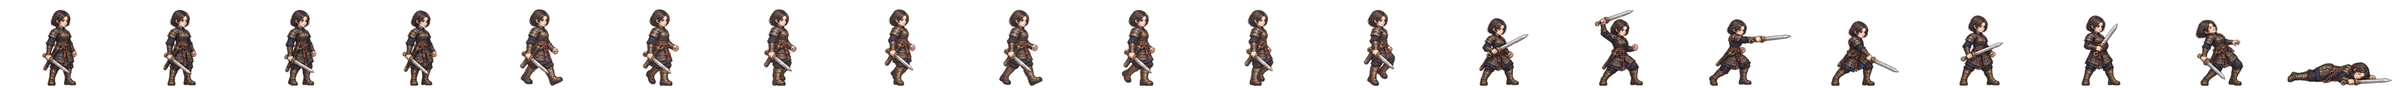
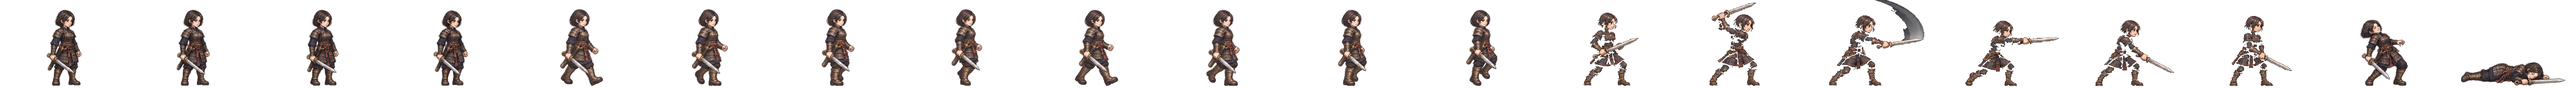
아라·진하 공격 칸 12~17 새로 (Codex 67 공격 8칸 · 형 「공격이 매끄럽지 못하다」)
준비 → 젖힘 → 휘두름(잔상) → 맞힘 → 따라감 → 거둠을 그대로 넣음(서기와 같은 판 1·8 은 뺌).
화가가 그린 앞으로 내디딤을 살리려고 칸마다 다시 가운데로 놓지 않고 줄 기준점으로만 맞춤(attack8-intake.py).
진하 지팡이·아라 칼끝이 칸 밖으로 잘려 띠 칸을 넓힘(진하 200→248 · 아라 216→232 · manifest·spritePx 같이).
감실·쇠비·다나·소서노는 옷이 서기 그림과 달라(숄·윗옷·배·털 깃) Codex 에 다시 시킴.

Claude-Session: https://claude.ai/code/session_01TRiuN7s6aDfSnaHxrkctmU

diff --git a/src/realm/data/spritePx.ts b/src/realm/data/spritePx.ts
@@ -1,3 +1,3 @@
 /** public/realm/anim-px/manifest.json 의 사본 — tools/sprite-normalize.mjs 가 만든다 (손으로 고치지 말 것). 칸 [가로, 세로] · feet = 발 줄(칸 위에서 y) · bodyPx = 서 있는 몸 키 */
 import { expandManifest } from './sprite-manifest.ts'
-export const SPRITE_PX: Readonly<Record<string, { readonly cell: readonly [number, number]; readonly feet: number; readonly bodyPx: number; readonly kind: 'general' | 'soldier' | 'folk' | 'crowd'; readonly cells: number }>> = expandManifest<{ readonly cell: readonly [number, number]; readonly feet: number; readonly bodyPx: number; readonly kind: 'general' | 'soldier' | 'folk' | 'crowd'; readonly cells: number }>([{"cell":[166,128],"feet":126,"bodyPx":124,"kind":"soldier","cells":20},{"cell":[116,128],"feet":126,"bodyPx":117,"kind":"soldier","cells":20},{"cell":[127,128],"feet":126,"bodyPx":116,"kind":"soldier","cells":20},{"cell":[269,128],"feet":126,"bodyPx":126,"kind":"soldier","cells":20},{"cell":[503,128],"feet":126,"bodyPx":127,"kind":"soldier","cells":20},{"cell":[614,128],"feet":126,"bodyPx":126,"kind":"soldier","cells":20},{"cell":[200,160],"feet":156,"bodyPx":138,"kind":"general","cells":20},{"cell":[208,160],"feet":155,"bodyPx":138,"kind":"general","cells":20},{"cell":[216,160],"feet":156,"bodyPx":138,"kind":"general","cells":20},{"cell":[232,160],"feet":155,"bodyPx":138,"kind":"general","cells":20},{"cell":[248,160],"feet":155,"bodyPx":138,"kind":"general","cells":20},{"cell":[224,160],"feet":156,"bodyPx":139,"kind":"general","cells":20},{"cell":[184,160],"feet":156,"bodyPx":138,"kind":"general","cells":20},{"cell":[208,160],"feet":156,"bodyPx":138,"kind":"general","cells":20},{"cell":[232,160],"feet":156,"bodyPx":138,"kind":"general","cells":20},{"cell":[168,160],"feet":156,"bodyPx":138,"kind":"general","cells":20},{"cell":[192,160],"feet":156,"bodyPx":138,"kind":"general","cells":20},{"cell":[168,160],"feet":156,"bodyPx":125,"kind":"general","cells":20},{"cell":[200,160],"feet":156,"bodyPx":122,"kind":"general","cells":20},{"cell":[256,160],"feet":156,"bodyPx":138,"kind":"general","cells":20},{"cell":[144,160],"feet":156,"bodyPx":70,"kind":"general","cells":20},{"cell":[208,160],"feet":156,"bodyPx":70,"kind":"general","cells":20},{"cell":[192,160],"feet":156,"bodyPx":70,"kind":"general","cells":20},{"cell":[240,160],"feet":155,"bodyPx":138,"kind":"general","cells":20},{"cell":[160,160],"feet":156,"bodyPx":138,"kind":"general","cells":20},{"cell":[224,160],"feet":155,"bodyPx":138,"kind":"general","cells":20},{"cell":[200,160],"feet":156,"bodyPx":139,"kind":"general","cells":20},{"cell":[232,160],"feet":156,"bodyPx":139,"kind":"general","cells":20},{"cell":[264,160],"feet":155,"bodyPx":138,"kind":"general","cells":20},{"cell":[176,160],"feet":156,"bodyPx":138,"kind":"general","cells":20},{"cell":[248,160],"feet":156,"bodyPx":138,"kind":"general","cells":20},{"cell":[200,160],"feet":155,"bodyPx":138,"kind":"general","cells":20},{"cell":[192,160],"feet":155,"bodyPx":138,"kind":"general","cells":20},{"cell":[192,160],"feet":156,"bodyPx":124,"kind":"general","cells":20},{"cell":[224,160],"feet":156,"bodyPx":138,"kind":"general","cells":20},{"cell":[232,160],"feet":156,"bodyPx":73,"kind":"general","cells":20},{"cell":[256,160],"feet":155,"bodyPx":138,"kind":"general","cells":20},{"cell":[224,160],"feet":156,"bodyPx":128,"kind":"general","cells":20},{"cell":[176,160],"feet":156,"bodyPx":129,"kind":"general","cells":20},{"cell":[216,160],"feet":155,"bodyPx":138,"kind":"general","cells":20},{"cell":[176,160],"feet":156,"bodyPx":70,"kind":"general","cells":20},{"cell":[186,128],"feet":126,"bodyPx":127,"kind":"soldier","cells":20},{"cell":[298,128],"feet":126,"bodyPx":126,"kind":"soldier","cells":20},{"cell":[82,128],"feet":126,"bodyPx":114,"kind":"folk","cells":8},{"cell":[134,128],"feet":126,"bodyPx":119,"kind":"soldier","cells":20},{"cell":[380,128],"feet":126,"bodyPx":124,"kind":"soldier","cells":20},{"cell":[114,128],"feet":126,"bodyPx":115,"kind":"soldier","cells":20},{"cell":[122,128],"feet":126,"bodyPx":114,"kind":"soldier","cells":20},{"cell":[254,128],"feet":126,"bodyPx":128,"kind":"soldier","cells":20},{"cell":[438,128],"feet":126,"bodyPx":126,"kind":"soldier","cells":20},{"cell":[88,128],"feet":126,"bodyPx":113,"kind":"folk","cells":8},{"cell":[100,128],"feet":126,"bodyPx":115,"kind":"folk","cells":8},{"cell":[108,128],"feet":126,"bodyPx":115,"kind":"folk","cells":8},{"cell":[63,128],"feet":126,"bodyPx":113,"kind":"folk","cells":8},{"cell":[69,96],"feet":96,"bodyPx":96,"kind":"crowd","cells":1},{"cell":[54,96],"feet":96,"bodyPx":96,"kind":"crowd","cells":1},{"cell":[47,96],"feet":96,"bodyPx":96,"kind":"crowd","cells":1},{"cell":[49,96],"feet":96,"bodyPx":96,"kind":"crowd","cells":1},{"cell":[57,96],"feet":96,"bodyPx":96,"kind":"crowd","cells":1},{"cell":[55,96],"feet":96,"bodyPx":96,"kind":"crowd","cells":1},{"cell":[45,96],"feet":96,"bodyPx":96,"kind":"crowd","cells":1},{"cell":[53,96],"feet":96,"bodyPx":96,"kind":"crowd","cells":1},{"cell":[64,96],"feet":96,"bodyPx":96,"kind":"crowd","cells":1},{"cell":[96,72],"feet":72,"bodyPx":72,"kind":"general","cells":20},{"cell":[184,160],"feet":156,"bodyPx":137,"kind":"general","cells":20},{"cell":[240,160],"feet":156,"bodyPx":138,"kind":"general","cells":20},{"cell":[288,160],"feet":156,"bodyPx":138,"kind":"general","cells":20},{"cell":[208,160],"feet":156,"bodyPx":123,"kind":"general","cells":20},{"cell":[176,160],"feet":156,"bodyPx":122,"kind":"general","cells":20},{"cell":[200,160],"feet":156,"bodyPx":127,"kind":"general","cells":20},{"cell":[184,160],"feet":156,"bodyPx":134,"kind":"general","cells":20},{"cell":[176,160],"feet":156,"bodyPx":137,"kind":"general","cells":20},{"cell":[184,160],"feet":156,"bodyPx":133,"kind":"general","cells":20}],[["axe",0],["bandit-chief",1],["bandit-club",2],["boat",3],["bow",4],["crossbow",5],["gen-adogan",6],["gen-alpyeong",7],["gen-ara",8],["gen-areum",9],["gen-aryeong",10],["gen-bakdal",6],["gen-baram",11],["gen-bdanbi",12],["gen-beom",13],["gen-beombal",12],["gen-beomi",13],["gen-bira",14],["gen-biryu",13],["gen-budeul",15],["gen-byeol",16],["gen-daemusin",17],["gen-daeso",6],["gen-dallae2",12],["gen-dalli",12],["gen-damul",18],["gen-danbi",13],["gen-dangung",16],["gen-darae",6],["gen-dokmudeom",7],["gen-duman",19],["gen-eomni",9],["gen-eureum",13],["gen-g-bow",20],["gen-g-spear",21],["gen-g-sword",22],["gen-gaennae",6],["gen-gamsil",23],["gen-gaon",24],["gen-geota",13],["gen-geumbawi",15],["gen-geumha",16],["gen-goeun",13],["gen-gom",25],["gen-gomok",13],["gen-gureum",23],["gen-guryema",16],["gen-gwaeyu",14],["gen-haebi",26],["gen-haedal",6],["gen-haesol",27],["gen-halla",7],["gen-heo",28],["gen-hneoul",12],["gen-hogong",8],["gen-hojin",13],["gen-horselord",13],["gen-hwalmi",29],["gen-hyeokgeose",16],["gen-hyeopbo",6],["gen-irang",13],["gen-jibaekho",30],["gen-jinha",31],["gen-jita",32],["gen-jumong",33],["gen-keundol",7],["gen-maehwa",13],["gen-maenun",16],["gen-malgalgi",19],["gen-mari",34],["gen-maro",34],["gen-maryeo",13],["gen-mdallae",11],["gen-mir",6],["gen-mount",35],["gen-mulbeom",36],["gen-mulsae",8],["gen-musoe",8],["gen-noeul",34],["gen-nuri",30],["gen-ocheongan",34],["gen-odi",10],["gen-odogan",6],["gen-ogan",16],["gen-oi",37],["gen-olddaeso",14],["gen-onjo",38],["gen-pidogan",13],["gen-sagong",25],["gen-sdallae",6],["gen-sincheongan",8],["gen-singwigan",8],["gen-sinneoul",9],["gen-sobeol",9],["gen-soebi",6],["gen-soebo",13],["gen-soenun",34],["gen-sogeumbi",39],["gen-songbi",34],["gen-songyang",12],["gen-sori",29],["gen-soseono",28],["gen-suro",16],["gen-tahae",6],["gen-tneoul",34],["gen-w-bow",20],["gen-w-spear",40],["gen-waechief",13],["gen-wan",8],["gen-yeodogan",13],["gen-yucheongan",13],["gen-yusugan",14],["horse",41],["marine",42],["migrant",43],["militia",44],["pike",45],["pirate-captain",46],["pirate-sword",47],["shield",48],["spear",49],["villager-builder",50],["villager-farmer",51],["villager-porter",52],["villager-woman",53],["crowd-b1",54],["crowd-b2",55],["crowd-b3",56],["crowd-b4",57],["crowd-b5",58],["crowd-b6",59],["crowd-f1",54],["crowd-f2",59],["crowd-f3",60],["crowd-f4",61],["crowd-f5",54],["crowd-f6",62],["gen-dalbit",63],["gen-base-g-07-drunk-warrior",16],["gen-base-g-40-anya-adan",13],["gen-base-w-13-young-archer",13],["gen-base-g-03-sea-trader",13],["gen-base-w-10-pirate-captain",34],["gen-base-w-64-miri-dallae",34],["gen-base-g-41-goja-bau",14],["gen-base-g-42-dokro-garam",14],["gen-base-g-09-farmer-conscript",8],["gen-base-w-02-goguryeo-lady",8],["gen-base-w-17-mahan-pearl-diver",13],["gen-base-g-17-saro-isageum",13],["gen-base-g-18-daegaya-king",12],["gen-base-g-35-dabeol-dalgu",13],["gen-base-g-19-sabeol-veteran",8],["gen-base-w-23-usisan-whale-queen",8],["gen-base-g-36-gammun-gamdol",34],["gen-base-g-20-samul-sea-lord",34],["gen-base-g-37-eumjeup-jeup",12],["gen-base-g-38-chopal-palmae",16],["gen-base-w-75-daegaya-soemoe",16],["gen-base-g-45-dabeol-deulgae",12],["gen-base-g-04-jinhan-giant",13],["gen-base-g-08-veteran",13],["gen-base-w-18-jinhan-salt-widow",13],["gen-base-w-12-court-dancer",12],["gen-base-w-83-gyeonji-beodeul",34],["gen-base-w-05-baekje-queen",16],["gen-base-w-21-baekje-court-dancer",12],["gen-base-g-01-master-smith",64],["gen-base-g-93-jomun-solgae",29],["gen-base-g-57-bihwa-neup",8],["gen-base-w-72-eumjeup-beol",13],["gen-base-w-102-garak-dana",8],["gen-base-g-68-baekje-onnuri",13],["gen-base-w-27-mokji-jinha",6],["gen-base-g-22-ungcheon-gomnae",6],["gen-base-g-23-sangdang-soedal",13],["gen-base-g-24-wansan-onsan",6],["gen-base-g-25-balla-keunmoe",8],["gen-base-g-61-heomcheuk-bawi",8],["gen-base-g-88-wander-soeul",34],["gen-base-w-14-feast-spy",6],["gen-base-g-12-silla-youth",13],["gen-base-w-08-mahan-warrior",13],["gen-base-g-62-beonye-hanul",65],["gen-base-g-63-heomcheuk-beogeum",13],["gen-base-g-84-wander-seoneul",13],["gen-base-w-50-siljik-mulga",8],["gen-base-g-46-uga-nureongso",8],["gen-base-w-80-usan-gangchi",12],["gen-base-g-47-guga-sanyanggae",8],["gen-base-w-76-gampyeong-baetsagong",6],["gen-base-g-05-mahan-chieftain",8],["gen-base-g-58-usan-uhae",13],["gen-base-g-27-maek-maekdol",13],["gen-base-w-53-hwanna-gabi",15],["gen-base-w-29-golpo-janmul",6],["gen-base-g-53-baekje-haeru",6],["gen-base-w-71-yeonna-neoul",8],["gen-base-w-79-yangmaek-solmae",8],["gen-base-w-34-chopal-deulme",6],["gen-base-g-44-maga-malgup",66],["gen-base-w-31-dabeol-dalbit",13],["gen-base-g-51-biryuna-mulgyeol",34],["gen-base-g-48-gwanna-musoe",13],["gen-base-g-32-uga-sodu",14],["gen-base-g-49-goguryeo-sona",16],["gen-base-g-30-gwanna-soemoe",34],["gen-base-g-52-tamna-oreum",12],["gen-base-g-29-yeonna-myeongsol",16],["gen-base-w-56-dongokjeo-sogeum",16],["gen-base-g-54-mokji-mahan",34],["gen-base-g-33-jeoga-metdol",16],["gen-base-w-36-baekje-maena",16],["gen-base-w-38-sangdang-bulmae",6],["gen-base-w-39-gosaburi-galmae",16],["gen-base-w-40-mujin-munui",13],["gen-base-w-41-hwanna-beodeul",12],["gen-base-w-43-uga-nuri",19],["gen-base-w-45-tamna-oreumbi",12],["gen-base-g-60-golbeol-golgae",12],["gen-base-g-61-apdok-ap",8],["gen-base-g-62-gammun-gamnamu",6],["gen-base-g-63-chopal-yeoul",30],["gen-base-g-64-michuhol-sogeumkkun",65],["gen-base-g-65-sangdang-soemangchi",34],["gen-base-g-66-geonma-malbalgup",65],["gen-base-g-67-gosaburi-buri",12],["gen-base-g-68-mujin-bitgoeul",12],["gen-base-g-69-goryong-yong",34],["gen-base-g-70-siljik-pado",65],["gen-base-w-81-byeokjin-byeolbit",13],["gen-base-w-46-geonma-maru",34],["gen-base-w-48-mujin-mudeung",34],["gen-base-g-26-gampyeong-gaetbeol",14],["gen-base-g-60-eupcha-hangyeol",67],["gen-base-g-15-shaman-man",8],["gen-base-g-85-wander-ure",30],["gen-base-g-43-hwanna-amnok",13],["gen-base-g-50-bullae-gwaha",16],["gen-base-g-55-saro-bakdal",13],["gen-base-g-56-haseulla-gwahama",6],["gen-base-w-06-buyeo-huntress",16],["gen-base-w-22-dongye-tiger-huntress",13],["gen-base-w-25-bihwa-priestess",8],["gen-base-w-24-apdok-queen",12],["gen-base-w-61-iseo-sinae",13],["gen-base-w-26-iseo-tomboy-general",30],["gen-base-g-59-yangmaek-maekson",29],["gen-aw1-haebi",16],["gen-aw1-soseono",65],["gen-aw1-gamsil",12],["gen-aw1-mir",29],["gen-aw1-dangung",6],["gen-aw1-ara",34],["gen-aw1-jumong",68],["gen-aw1-onjo",69],["gen-aw1-base-w-83-gyeonji-beodeul",16],["gen-aw1-heo",8],["gen-aw1-base-g-38-chopal-palmae",12],["gen-aw1-base-w-25-bihwa-priestess",70],["gen-aw1-sori",15],["gen-aw1-gomok",6],["gen-aw1-irang",16],["gen-aw1-budeul",15],["gen-aw1-gom",34],["gen-aw1-sdallae",6],["gen-aw1-base-w-13-young-archer",6],["gen-aw1-base-w-36-baekje-maena",71],["gen-aw1-base-g-09-farmer-conscript",8],["gen-aw1-base-w-02-goguryeo-lady",72],["gen-aw1-haedal",12],["gen-aw1-hogong",6],["gen-aw1-maehwa",29],["gen-aw1-base-w-06-buyeo-huntress",12],["gen-aw1-base-w-08-mahan-warrior",6],["gen-aw1-base-w-29-golpo-janmul",16],["gen-aw1-base-w-31-dabeol-dalbit",16],["gen-aw1-base-w-38-sangdang-bulmae",15],["gen-aw1-bira",8],["gen-aw1-base-w-53-hwanna-gabi",15],["gen-aw1-base-w-56-dongokjeo-sogeum",29],["gen-aw1-base-w-72-eumjeup-beol",16],["gen-aw1-bdanbi",15],["gen-aw1-beom",12],["gen-aw1-beombal",12],["gen-aw1-byeol",29],["gen-aw1-dalli",29],["gen-aw1-malgalgi",30],["gen-aw1-sincheongan",8]])
+export const SPRITE_PX: Readonly<Record<string, { readonly cell: readonly [number, number]; readonly feet: number; readonly bodyPx: number; readonly kind: 'general' | 'soldier' | 'folk' | 'crowd'; readonly cells: number }>> = expandManifest<{ readonly cell: readonly [number, number]; readonly feet: number; readonly bodyPx: number; readonly kind: 'general' | 'soldier' | 'folk' | 'crowd'; readonly cells: number }>([{"cell":[166,128],"feet":126,"bodyPx":124,"kind":"soldier","cells":20},{"cell":[116,128],"feet":126,"bodyPx":117,"kind":"soldier","cells":20},{"cell":[127,128],"feet":126,"bodyPx":116,"kind":"soldier","cells":20},{"cell":[269,128],"feet":126,"bodyPx":126,"kind":"soldier","cells":20},{"cell":[503,128],"feet":126,"bodyPx":127,"kind":"soldier","cells":20},{"cell":[614,128],"feet":126,"bodyPx":126,"kind":"soldier","cells":20},{"cell":[200,160],"feet":156,"bodyPx":138,"kind":"general","cells":20},{"cell":[208,160],"feet":155,"bodyPx":138,"kind":"general","cells":20},{"cell":[232,160],"feet":156,"bodyPx":138,"kind":"general","cells":20},{"cell":[232,160],"feet":155,"bodyPx":138,"kind":"general","cells":20},{"cell":[248,160],"feet":155,"bodyPx":138,"kind":"general","cells":20},{"cell":[224,160],"feet":156,"bodyPx":139,"kind":"general","cells":20},{"cell":[184,160],"feet":156,"bodyPx":138,"kind":"general","cells":20},{"cell":[208,160],"feet":156,"bodyPx":138,"kind":"general","cells":20},{"cell":[168,160],"feet":156,"bodyPx":138,"kind":"general","cells":20},{"cell":[192,160],"feet":156,"bodyPx":138,"kind":"general","cells":20},{"cell":[168,160],"feet":156,"bodyPx":125,"kind":"general","cells":20},{"cell":[200,160],"feet":156,"bodyPx":122,"kind":"general","cells":20},{"cell":[256,160],"feet":156,"bodyPx":138,"kind":"general","cells":20},{"cell":[144,160],"feet":156,"bodyPx":70,"kind":"general","cells":20},{"cell":[208,160],"feet":156,"bodyPx":70,"kind":"general","cells":20},{"cell":[192,160],"feet":156,"bodyPx":70,"kind":"general","cells":20},{"cell":[240,160],"feet":155,"bodyPx":138,"kind":"general","cells":20},{"cell":[160,160],"feet":156,"bodyPx":138,"kind":"general","cells":20},{"cell":[224,160],"feet":155,"bodyPx":138,"kind":"general","cells":20},{"cell":[200,160],"feet":156,"bodyPx":139,"kind":"general","cells":20},{"cell":[232,160],"feet":156,"bodyPx":139,"kind":"general","cells":20},{"cell":[264,160],"feet":155,"bodyPx":138,"kind":"general","cells":20},{"cell":[216,160],"feet":156,"bodyPx":138,"kind":"general","cells":20},{"cell":[176,160],"feet":156,"bodyPx":138,"kind":"general","cells":20},{"cell":[248,160],"feet":156,"bodyPx":138,"kind":"general","cells":20},{"cell":[192,160],"feet":155,"bodyPx":138,"kind":"general","cells":20},{"cell":[192,160],"feet":156,"bodyPx":124,"kind":"general","cells":20},{"cell":[224,160],"feet":156,"bodyPx":138,"kind":"general","cells":20},{"cell":[232,160],"feet":156,"bodyPx":73,"kind":"general","cells":20},{"cell":[256,160],"feet":155,"bodyPx":138,"kind":"general","cells":20},{"cell":[224,160],"feet":156,"bodyPx":128,"kind":"general","cells":20},{"cell":[176,160],"feet":156,"bodyPx":129,"kind":"general","cells":20},{"cell":[216,160],"feet":155,"bodyPx":138,"kind":"general","cells":20},{"cell":[176,160],"feet":156,"bodyPx":70,"kind":"general","cells":20},{"cell":[186,128],"feet":126,"bodyPx":127,"kind":"soldier","cells":20},{"cell":[298,128],"feet":126,"bodyPx":126,"kind":"soldier","cells":20},{"cell":[82,128],"feet":126,"bodyPx":114,"kind":"folk","cells":8},{"cell":[134,128],"feet":126,"bodyPx":119,"kind":"soldier","cells":20},{"cell":[380,128],"feet":126,"bodyPx":124,"kind":"soldier","cells":20},{"cell":[114,128],"feet":126,"bodyPx":115,"kind":"soldier","cells":20},{"cell":[122,128],"feet":126,"bodyPx":114,"kind":"soldier","cells":20},{"cell":[254,128],"feet":126,"bodyPx":128,"kind":"soldier","cells":20},{"cell":[438,128],"feet":126,"bodyPx":126,"kind":"soldier","cells":20},{"cell":[88,128],"feet":126,"bodyPx":113,"kind":"folk","cells":8},{"cell":[100,128],"feet":126,"bodyPx":115,"kind":"folk","cells":8},{"cell":[108,128],"feet":126,"bodyPx":115,"kind":"folk","cells":8},{"cell":[63,128],"feet":126,"bodyPx":113,"kind":"folk","cells":8},{"cell":[69,96],"feet":96,"bodyPx":96,"kind":"crowd","cells":1},{"cell":[54,96],"feet":96,"bodyPx":96,"kind":"crowd","cells":1},{"cell":[47,96],"feet":96,"bodyPx":96,"kind":"crowd","cells":1},{"cell":[49,96],"feet":96,"bodyPx":96,"kind":"crowd","cells":1},{"cell":[57,96],"feet":96,"bodyPx":96,"kind":"crowd","cells":1},{"cell":[55,96],"feet":96,"bodyPx":96,"kind":"crowd","cells":1},{"cell":[45,96],"feet":96,"bodyPx":96,"kind":"crowd","cells":1},{"cell":[53,96],"feet":96,"bodyPx":96,"kind":"crowd","cells":1},{"cell":[64,96],"feet":96,"bodyPx":96,"kind":"crowd","cells":1},{"cell":[96,72],"feet":72,"bodyPx":72,"kind":"general","cells":20},{"cell":[184,160],"feet":156,"bodyPx":137,"kind":"general","cells":20},{"cell":[240,160],"feet":156,"bodyPx":138,"kind":"general","cells":20},{"cell":[288,160],"feet":156,"bodyPx":138,"kind":"general","cells":20},{"cell":[208,160],"feet":156,"bodyPx":123,"kind":"general","cells":20},{"cell":[176,160],"feet":156,"bodyPx":122,"kind":"general","cells":20},{"cell":[200,160],"feet":156,"bodyPx":127,"kind":"general","cells":20},{"cell":[184,160],"feet":156,"bodyPx":134,"kind":"general","cells":20},{"cell":[176,160],"feet":156,"bodyPx":137,"kind":"general","cells":20},{"cell":[184,160],"feet":156,"bodyPx":133,"kind":"general","cells":20}],[["axe",0],["bandit-chief",1],["bandit-club",2],["boat",3],["bow",4],["crossbow",5],["gen-adogan",6],["gen-alpyeong",7],["gen-ara",8],["gen-areum",9],["gen-aryeong",10],["gen-bakdal",6],["gen-baram",11],["gen-bdanbi",12],["gen-beom",13],["gen-beombal",12],["gen-beomi",13],["gen-bira",8],["gen-biryu",13],["gen-budeul",14],["gen-byeol",15],["gen-daemusin",16],["gen-daeso",6],["gen-dallae2",12],["gen-dalli",12],["gen-damul",17],["gen-danbi",13],["gen-dangung",15],["gen-darae",6],["gen-dokmudeom",7],["gen-duman",18],["gen-eomni",9],["gen-eureum",13],["gen-g-bow",19],["gen-g-spear",20],["gen-g-sword",21],["gen-gaennae",6],["gen-gamsil",22],["gen-gaon",23],["gen-geota",13],["gen-geumbawi",14],["gen-geumha",15],["gen-goeun",13],["gen-gom",24],["gen-gomok",13],["gen-gureum",22],["gen-guryema",15],["gen-gwaeyu",8],["gen-haebi",25],["gen-haedal",6],["gen-haesol",26],["gen-halla",7],["gen-heo",27],["gen-hneoul",12],["gen-hogong",28],["gen-hojin",13],["gen-horselord",13],["gen-hwalmi",29],["gen-hyeokgeose",15],["gen-hyeopbo",6],["gen-irang",13],["gen-jibaekho",30],["gen-jinha",10],["gen-jita",31],["gen-jumong",32],["gen-keundol",7],["gen-maehwa",13],["gen-maenun",15],["gen-malgalgi",18],["gen-mari",33],["gen-maro",33],["gen-maryeo",13],["gen-mdallae",11],["gen-mir",6],["gen-mount",34],["gen-mulbeom",35],["gen-mulsae",28],["gen-musoe",28],["gen-noeul",33],["gen-nuri",30],["gen-ocheongan",33],["gen-odi",10],["gen-odogan",6],["gen-ogan",15],["gen-oi",36],["gen-olddaeso",8],["gen-onjo",37],["gen-pidogan",13],["gen-sagong",24],["gen-sdallae",6],["gen-sincheongan",28],["gen-singwigan",28],["gen-sinneoul",9],["gen-sobeol",9],["gen-soebi",6],["gen-soebo",13],["gen-soenun",33],["gen-sogeumbi",38],["gen-songbi",33],["gen-songyang",12],["gen-sori",29],["gen-soseono",27],["gen-suro",15],["gen-tahae",6],["gen-tneoul",33],["gen-w-bow",19],["gen-w-spear",39],["gen-waechief",13],["gen-wan",28],["gen-yeodogan",13],["gen-yucheongan",13],["gen-yusugan",8],["horse",40],["marine",41],["migrant",42],["militia",43],["pike",44],["pirate-captain",45],["pirate-sword",46],["shield",47],["spear",48],["villager-builder",49],["villager-farmer",50],["villager-porter",51],["villager-woman",52],["crowd-b1",53],["crowd-b2",54],["crowd-b3",55],["crowd-b4",56],["crowd-b5",57],["crowd-b6",58],["crowd-f1",53],["crowd-f2",58],["crowd-f3",59],["crowd-f4",60],["crowd-f5",53],["crowd-f6",61],["gen-dalbit",62],["gen-base-g-07-drunk-warrior",15],["gen-base-g-40-anya-adan",13],["gen-base-w-13-young-archer",13],["gen-base-g-03-sea-trader",13],["gen-base-w-10-pirate-captain",33],["gen-base-w-64-miri-dallae",33],["gen-base-g-41-goja-bau",8],["gen-base-g-42-dokro-garam",8],["gen-base-g-09-farmer-conscript",28],["gen-base-w-02-goguryeo-lady",28],["gen-base-w-17-mahan-pearl-diver",13],["gen-base-g-17-saro-isageum",13],["gen-base-g-18-daegaya-king",12],["gen-base-g-35-dabeol-dalgu",13],["gen-base-g-19-sabeol-veteran",28],["gen-base-w-23-usisan-whale-queen",28],["gen-base-g-36-gammun-gamdol",33],["gen-base-g-20-samul-sea-lord",33],["gen-base-g-37-eumjeup-jeup",12],["gen-base-g-38-chopal-palmae",15],["gen-base-w-75-daegaya-soemoe",15],["gen-base-g-45-dabeol-deulgae",12],["gen-base-g-04-jinhan-giant",13],["gen-base-g-08-veteran",13],["gen-base-w-18-jinhan-salt-widow",13],["gen-base-w-12-court-dancer",12],["gen-base-w-83-gyeonji-beodeul",33],["gen-base-w-05-baekje-queen",15],["gen-base-w-21-baekje-court-dancer",12],["gen-base-g-01-master-smith",63],["gen-base-g-93-jomun-solgae",29],["gen-base-g-57-bihwa-neup",28],["gen-base-w-72-eumjeup-beol",13],["gen-base-w-102-garak-dana",28],["gen-base-g-68-baekje-onnuri",13],["gen-base-w-27-mokji-jinha",6],["gen-base-g-22-ungcheon-gomnae",6],["gen-base-g-23-sangdang-soedal",13],["gen-base-g-24-wansan-onsan",6],["gen-base-g-25-balla-keunmoe",28],["gen-base-g-61-heomcheuk-bawi",28],["gen-base-g-88-wander-soeul",33],["gen-base-w-14-feast-spy",6],["gen-base-g-12-silla-youth",13],["gen-base-w-08-mahan-warrior",13],["gen-base-g-62-beonye-hanul",64],["gen-base-g-63-heomcheuk-beogeum",13],["gen-base-g-84-wander-seoneul",13],["gen-base-w-50-siljik-mulga",28],["gen-base-g-46-uga-nureongso",28],["gen-base-w-80-usan-gangchi",12],["gen-base-g-47-guga-sanyanggae",28],["gen-base-w-76-gampyeong-baetsagong",6],["gen-base-g-05-mahan-chieftain",28],["gen-base-g-58-usan-uhae",13],["gen-base-g-27-maek-maekdol",13],["gen-base-w-53-hwanna-gabi",14],["gen-base-w-29-golpo-janmul",6],["gen-base-g-53-baekje-haeru",6],["gen-base-w-71-yeonna-neoul",28],["gen-base-w-79-yangmaek-solmae",28],["gen-base-w-34-chopal-deulme",6],["gen-base-g-44-maga-malgup",65],["gen-base-w-31-dabeol-dalbit",13],["gen-base-g-51-biryuna-mulgyeol",33],["gen-base-g-48-gwanna-musoe",13],["gen-base-g-32-uga-sodu",8],["gen-base-g-49-goguryeo-sona",15],["gen-base-g-30-gwanna-soemoe",33],["gen-base-g-52-tamna-oreum",12],["gen-base-g-29-yeonna-myeongsol",15],["gen-base-w-56-dongokjeo-sogeum",15],["gen-base-g-54-mokji-mahan",33],["gen-base-g-33-jeoga-metdol",15],["gen-base-w-36-baekje-maena",15],["gen-base-w-38-sangdang-bulmae",6],["gen-base-w-39-gosaburi-galmae",15],["gen-base-w-40-mujin-munui",13],["gen-base-w-41-hwanna-beodeul",12],["gen-base-w-43-uga-nuri",18],["gen-base-w-45-tamna-oreumbi",12],["gen-base-g-60-golbeol-golgae",12],["gen-base-g-61-apdok-ap",28],["gen-base-g-62-gammun-gamnamu",6],["gen-base-g-63-chopal-yeoul",30],["gen-base-g-64-michuhol-sogeumkkun",64],["gen-base-g-65-sangdang-soemangchi",33],["gen-base-g-66-geonma-malbalgup",64],["gen-base-g-67-gosaburi-buri",12],["gen-base-g-68-mujin-bitgoeul",12],["gen-base-g-69-goryong-yong",33],["gen-base-g-70-siljik-pado",64],["gen-base-w-81-byeokjin-byeolbit",13],["gen-base-w-46-geonma-maru",33],["gen-base-w-48-mujin-mudeung",33],["gen-base-g-26-gampyeong-gaetbeol",8],["gen-base-g-60-eupcha-hangyeol",66],["gen-base-g-15-shaman-man",28],["gen-base-g-85-wander-ure",30],["gen-base-g-43-hwanna-amnok",13],["gen-base-g-50-bullae-gwaha",15],["gen-base-g-55-saro-bakdal",13],["gen-base-g-56-haseulla-gwahama",6],["gen-base-w-06-buyeo-huntress",15],["gen-base-w-22-dongye-tiger-huntress",13],["gen-base-w-25-bihwa-priestess",28],["gen-base-w-24-apdok-queen",12],["gen-base-w-61-iseo-sinae",13],["gen-base-w-26-iseo-tomboy-general",30],["gen-base-g-59-yangmaek-maekson",29],["gen-aw1-haebi",15],["gen-aw1-soseono",64],["gen-aw1-gamsil",12],["gen-aw1-mir",29],["gen-aw1-dangung",6],["gen-aw1-ara",33],["gen-aw1-jumong",67],["gen-aw1-onjo",68],["gen-aw1-base-w-83-gyeonji-beodeul",15],["gen-aw1-heo",28],["gen-aw1-base-g-38-chopal-palmae",12],["gen-aw1-base-w-25-bihwa-priestess",69],["gen-aw1-sori",14],["gen-aw1-gomok",6],["gen-aw1-irang",15],["gen-aw1-budeul",14],["gen-aw1-gom",33],["gen-aw1-sdallae",6],["gen-aw1-base-w-13-young-archer",6],["gen-aw1-base-w-36-baekje-maena",70],["gen-aw1-base-g-09-farmer-conscript",28],["gen-aw1-base-w-02-goguryeo-lady",71],["gen-aw1-haedal",12],["gen-aw1-hogong",6],["gen-aw1-maehwa",29],["gen-aw1-base-w-06-buyeo-huntress",12],["gen-aw1-base-w-08-mahan-warrior",6],["gen-aw1-base-w-29-golpo-janmul",15],["gen-aw1-base-w-31-dabeol-dalbit",15],["gen-aw1-base-w-38-sangdang-bulmae",14],["gen-aw1-bira",28],["gen-aw1-base-w-53-hwanna-gabi",14],["gen-aw1-base-w-56-dongokjeo-sogeum",29],["gen-aw1-base-w-72-eumjeup-beol",15],["gen-aw1-bdanbi",14],["gen-aw1-beom",12],["gen-aw1-beombal",12],["gen-aw1-byeol",29],["gen-aw1-dalli",29],["gen-aw1-malgalgi",30],["gen-aw1-sincheongan",28]])

diff --git a/tools/sprite-kit/attack8-intake.py b/tools/sprite-kit/attack8-intake.py
@@ -1,0 +1,170 @@
+"""Codex 공격 8칸 판(4×2 · 민무늬 바탕)을 장수 띠의 공격 칸 12~17 에 넣는다 (형 11-21 「공격이 매끄럽지 못하다 · 동작마다 만들어야 하나」 · 명령 67-4).
+
+  py -3 -I tools/sprite-kit/attack8-intake.py <띠이름> [...]          → 미리보기만 (<판 폴더>/check/attack8-<띠이름>.jpg · 위 = 옛 칸 · 아래 = 새 칸)
+  py -3 -I tools/sprite-kit/attack8-intake.py --write <띠이름> [...]  → public/realm/anim-px/gen-<띠이름>.png 의 12~17 을 고쳐 씀
+  --src <판 폴더> (기본 D:/에셋창고/codex67) · --map 2,3,4,5,6,7 (판 칸 번호 1~8 → 띠 칸 12~17)
+  --widen jinha=48,ara=16 : 그 띠의 20칸을 모두 그만큼 넓힌다(양쪽 반씩 · 몸은 그대로 가운데) → manifest.json·spritePx.ts 의 칸 가로도 고침(--write 때)
+
+판: <판 폴더>/attack8_<띠이름>.png · 칸 차례 윗줄 왼→오, 아랫줄 왼→오:
+  1 서기 · 2 준비 · 3 젖힘(가장 높이) · 4 휘두름(잔상) · 5 맞힘 · 6 따라감 · 7 거둠 · 8 서기
+띠 칸 역할(params HAEBI_ANIM.roles): 12 준비 · 13 젖힘(활은 메김) · 14 휘두름(활은 당김) · 15 맞힘(활은 놓음) · 16·17 거둠.
+서기와 거의 같은 1·8 은 빼고 2~7 을 그대로 넣는다(기본 --map).
+
+맞추는 법(걷기 walk8-intake.py 와 다름 · 화가가 그린 앞으로 나감을 살린다):
+  배율 = 띠 서기 칸 0 의 키 / 판 1번 칸(서기)의 키 · 한 장 안의 모든 칸은 같은 배율.
+  세로: 판의 줄마다 바닥선(그 줄 칸들의 발끝 가운데값)을 띠의 발 줄에 · 가로: 줄마다 서기 칸(윗줄 1 · 아랫줄 8)의 발 가운데를 띠 서기 칸 발 가운데에.
+  그래서 칸마다 몸을 가운데로 다시 놓지 않는다(내디딘 걸음·내뻗은 팔이 그대로 앞으로 나간다).
+옛 판은 git 기록에 남는다 → 커밋 뒤 py -I tools/retire-history.py.
+"""
+import importlib.util
+import os
+import sys
+
+import numpy as np
+from PIL import Image
+
+HERE = os.path.dirname(os.path.abspath(__file__))
+_spec = importlib.util.spec_from_file_location('walk8_intake', os.path.join(HERE, 'walk8-intake.py'))
+W8 = importlib.util.module_from_spec(_spec); _spec.loader.exec_module(W8)
+
+ROOT = W8.ROOT
+FOLDER = 'public/realm/anim-px'
+CELLS = list(range(12, 18))
+FOOT_BAND = .12
+POCKET_TOL, POCKET_MIN = 6, 30   # 잔상 호와 몸 사이에 갇힌 바탕(가장자리와 안 이어져 key_out 이 못 지운 곳) — 바탕색과 거의 같은 평평한 덩어리만
+
+
+def drop_pockets(rgba, bg):
+    from scipy import ndimage
+    a = rgba.astype(np.int16)
+    flat = (np.abs(a[:, :, :3] - bg).max(axis=2) <= POCKET_TOL) & (rgba[:, :, 3] > 0)
+    lab, n = ndimage.label(flat)
+    if n:
+        size = ndimage.sum(flat, lab, range(1, n + 1))
+        kill = np.isin(lab, np.nonzero(size >= POCKET_MIN)[0] + 1)
+        rgba = rgba.copy(); rgba[kill, 3] = 0
+    return rgba
+
+
+def foot_of(arr):
+    """알파 배열에서 발끝 줄(가장 아래 몸 줄)과 발 가운데 x."""
+    m = arr[:, :, 3] > 64
+    ys, xs = np.nonzero(m)
+    y1 = int(ys.max()); h = y1 - int(ys.min()) + 1
+    band = ys > y1 - h * FOOT_BAND
+    return y1, float(xs[band].mean()), h
+
+
+def sheet_cells(img):
+    w, h = img.size
+    cw, ch = w // 4, h // 2
+    return [np.asarray(img.crop((c * cw, r * ch, (c + 1) * cw, (r + 1) * ch))).copy() for r in range(2) for c in range(4)]
+
+
+def widen(strip, extra):
+    """20칸을 모두 extra 만큼 넓힌다 (양쪽 반씩 · 칸 안 그림은 그대로 가운데)."""
+    fw, h = strip.size[0] // 20, strip.size[1]
+    nw = fw + extra; out = Image.new('RGBA', (nw * 20, h), (0, 0, 0, 0))
+    for k in range(20):
+        out.paste(strip.crop((k * fw, 0, (k + 1) * fw, h)), (k * nw + extra // 2, 0))
+    return out
+
+
+def build(key, src_dir, mapping, extra=0):
+    src = os.path.join(src_dir, f'attack8_{key}.png')
+    if not os.path.exists(src) or os.path.getsize(src) == 0:
+        raise SystemExit(f'없음: {src}')
+    img = Image.open(src).convert('RGBA')
+    if not W8.has_alpha(img):
+        a = np.asarray(img.convert('RGB')).astype(np.int16)
+        bg = np.median(np.concatenate([a[:8, :8].reshape(-1, 3), a[:8, -8:].reshape(-1, 3), a[-8:, :8].reshape(-1, 3), a[-8:, -8:].reshape(-1, 3)]), axis=0)
+        img = Image.fromarray(drop_pockets(np.asarray(W8.key_out(img)), bg))
+    cells = sheet_cells(img)
+    for i, c in enumerate(cells):
+        if (c[:, :, 3] > 64).sum() < 200:
+            raise SystemExit(f'{key}: 판 {i + 1}번 칸이 비었다')
+    # 줄마다 바닥선(발끝 가운데값)과 서기 칸 발 가운데
+    feet = [foot_of(c) for c in cells]
+    base = [float(np.median([feet[i][0] for i in range(r * 4, r * 4 + 4)])) for r in range(2)]
+    anchor = [feet[0][1], feet[7][1]]
+    strip_p = os.path.join(ROOT, FOLDER, f'gen-{key}.png')
+    strip = Image.open(strip_p).convert('RGBA')
+    if extra:
+        strip = widen(strip, extra)
+    fw, h, ref_h, foot, cx = W8.idle_ref(strip)
+    scale = ref_h / feet[0][2]
+    out = strip.copy()
+    clipped = []
+    for cell_no, f in zip(CELLS, mapping):
+        arr = cells[f - 1]; row = (f - 1) // 4
+        im = Image.fromarray(arr)
+        nw, nh = max(1, round(im.size[0] * scale)), max(1, round(im.size[1] * scale))
+        g = im.resize((nw, nh), Image.BOX)
+        # 판 칸 좌표 → 띠 칸 좌표: 줄의 기준점(서기 발 가운데, 바닥선)을 띠의 (cx, foot) 에
+        ox = round(cx - anchor[row] * scale); oy = round(foot - base[row] * scale)
+        a = np.asarray(g)[:, :, 3] > 64
+        ys, xs = np.nonzero(a)
+        lo, hi, top, bot = xs.min() + ox, xs.max() + ox, ys.min() + oy, ys.max() + oy
+        sides = {'왼': max(0, -lo), '오': max(0, hi - (fw - 1)), '위': max(0, -top), '아래': max(0, bot - (h - 1))}
+        if any(sides.values()):
+            clipped.append(f'{cell_no}:' + '/'.join(f'{k}{v}' for k, v in sides.items() if v))
+        cell = Image.new('RGBA', (fw, h), (0, 0, 0, 0))
+        cell.paste(g, (ox, oy), g)
+        out.paste(cell, (fw * cell_no, 0))
+    return strip, out, scale, clipped, strip_p
+
+
+def preview(key, old, new, check_dir):
+    fw = old.size[0] // 20; h = old.size[1]
+    pick = [0] + CELLS
+    im = Image.new('RGBA', (fw * len(pick), h * 2 + 6), (30, 30, 30, 255))
+    for y, s in ((0, old), (h + 6, new)):
+        row = Image.new('RGBA', (fw * len(pick), h), (52, 58, 70, 255))
+        for j, c in enumerate(pick):
+            row.alpha_composite(s.crop((c * fw, 0, (c + 1) * fw, h)), (j * fw, 0))
+        im.alpha_composite(row, (0, y))
+    os.makedirs(check_dir, exist_ok=True)
+    p = os.path.join(check_dir, f'attack8-{key}.jpg')
+    im.convert('RGB').save(p, quality=90)
+    return p
+
+
+def set_cell_width(name, width):
+    """manifest.json 의 칸 가로를 고치고 spritePx.ts 를 다시 쓴다(tools/sprite-kit/headgear.mjs 의 spritePxTs · 머리 장식 보정은 건드리지 않음)."""
+    import json, subprocess
+    man = os.path.join(ROOT, FOLDER, 'manifest.json')
+    m = json.load(open(man, encoding='utf-8'))
+    m[name]['cell'][0] = width
+    with open(man, 'w', encoding='utf-8', newline='') as f:
+        f.write(json.dumps(m, ensure_ascii=False, separators=(',', ':')))
+    js = os.path.join(HERE, 'write-spritepx.mjs')
+    subprocess.run(['node', js], cwd=ROOT, check=True)
+
+
+def main():
+    args = sys.argv[1:]
+    write = '--write' in args
+    src_dir = args[args.index('--src') + 1] if '--src' in args else 'D:/에셋창고/codex67'
+    mapping = [int(n) for n in (args[args.index('--map') + 1] if '--map' in args else '2,3,4,5,6,7').split(',')]
+    if len(mapping) != 6 or not all(1 <= n <= 8 for n in mapping):
+        raise SystemExit('--map 은 1~8 사이 여섯 개')
+    wid = dict((kv.split('=')[0], int(kv.split('=')[1])) for kv in (args[args.index('--widen') + 1].split(',') if '--widen' in args else []))
+    skip = {src_dir, ','.join(map(str, mapping)), args[args.index('--widen') + 1] if '--widen' in args else None}
+    keys = [a for a in args if not a.startswith('--') and a not in skip]
+    if not keys:
+        raise SystemExit(__doc__)
+    for key in keys:
+        extra = wid.get(key, 0)
+        if extra % 2:
+            raise SystemExit('--widen 은 짝수')
+        old, new, scale, clipped, p = build(key, src_dir, mapping, extra)
+        pv = preview(key, old, new, os.path.join(src_dir, 'check'))  # build 가 돌려준 old 는 이미 넓힌 띠
+        if write:
+            new.save(p, optimize=True)
+            if extra:
+                set_cell_width(f'gen-{key}', new.size[0] // 20)
+        print(f'{key}: 배율 {scale:.3f} · 칸 밖으로 잘린 곳 {", ".join(clipped) or "없음"}' + (' · 씀' if write else '') + f' · {pv}')
+
+
+if __name__ == '__main__':
+    main()
